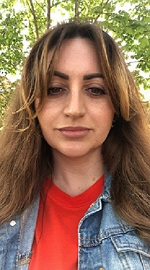
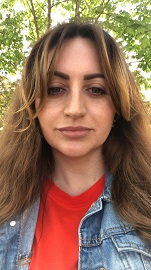
fixed photos size

diff --git a/src/partials/components/team-madal.html b/src/partials/components/team-madal.html
@@ -1,4 +1,4 @@
-<div class="backdrop__team-modal">
+<div class="backdrop__team-modal is-hidden">
     <div class="team-modal">
         <button class="team-modal__btn-close" type="button">X
             <!-- <svg width="11" height="11">
@@ -43,6 +43,13 @@
             </div>
             </li>
             <li class="team-modal__card">
+                <img src="./images/team-modal/Samvel-desk-1x.jpg" alt="man Samvel">
+            <div class="team-modal__box">
+                <h3 class="team-modal__box-title">Samvel Ogmrtsyan</h3>
+                <p class="team-modal__text">Web Developer</p>
+            </div>
+            </li>
+            <li class="team-modal__card">
                     <img src="./images/team-modal/Yevhen-desk-1x.jpg" alt="man Yevhen">
             <div class="team-modal__box">
                 <h3 class="team-modal__box-title">Yevhen Podoliaka</h3>
@@ -50,16 +57,9 @@
             </div>
             </li>
             <li class="team-modal__card">
-                    <img src="./images/team-modal/Oleksandr-desk-1x.jpg" alt="man Oleksandr">
+                <img src="./images/team-modal/Oleksandr-desk-1x.jpg" alt="man Oleksandr">
             <div class="team-modal__box">
                 <h3 class="team-modal__box-title">Oleksandr Suprun</h3>
-                <p class="team-modal__text">Web Developer</p>
-            </div>
-            </li>
-            <li class="team-modal__card">
-                    <img src="./images/team-modal/Samvel-desk-1x.jpg" alt="man Samvel">
-            <div class="team-modal__box">
-                <h3 class="team-modal__box-title">Samvel Ogmrtsyan</h3>
                 <p class="team-modal__text">Web Developer</p>
             </div>
             </li>

diff --git a/src/sass/components/_team-madal.scss b/src/sass/components/_team-madal.scss
@@ -7,12 +7,18 @@
     height: 100%;
     overflow-y: scroll;
     background-color: rgba(0, 0, 0, 0.25);
-    // transition: opacity 250ms cubic-bezier(0.4, 0, 0.2, 1);
 }
 .team-modal {
+    max-height: 90%;
+    max-width: 280px;
     position: relative;
+    border-radius: 5px;
     background-color: var(--white-colore);
     padding: 15px;
+    overflow-y: auto;
+    @media screen and (max-width: 767px) {
+        margin: auto;
+    }
     @media screen and (min-width: 768px) {
         width: 100%;
         max-width: 600px;
@@ -20,7 +26,6 @@
         top: 50%;
         left: 50%;
         transform: translate(-50%, -50%) scale(1);
-        // transition: transform 250ms cubic-bezier(0.4, 0, 0.2, 1);
     }
     @media screen and (min-width: 1280px) {
         min-width: 806px;
@@ -40,7 +45,7 @@
     border: 1px solid rgba(0, 0, 0, 0.1);
     border-radius: 50%;
     fill: var(--primery-text-color);
-    // transition: fill 250ms cubic-bezier(0.4, 0, 0.2, 1);
+    transition: fill 250ms cubic-bezier(0.4, 0, 0.2, 1);
     &:hover, &:focus {
         fill: var(--active-btn-color);
     }
